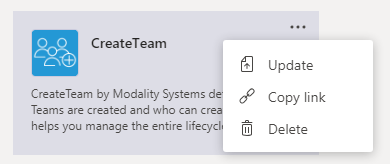
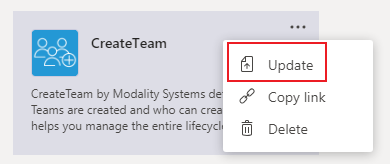
Added CreateTeam docs
New "start here" for CT SaaS customers, new CT SaaS update page, new reference for settings/template items

Changed region(s): [[0.5846, 0.2439, 0.8615, 0.4878], [0.5846, 0.4878, 0.8308, 0.5183]]

diff --git a/CreateTeam/createteam-config.md b/CreateTeam/createteam-config.md
@@ -1,0 +1,31 @@
+# Configuring CreateTeam
+
+For SaaS customers, Modality Systems configure these options for you - this acts as a reference for what is possible.
+
+For customer Azure tenant (CAT), these are [set in Azure table storage](https://docs.modalitysystems.com/CreateTeam/customerHosted/TableStorageConfiguration.html).
+
+## Inital screen
+
+Control appearance and which options the end user will see.
+
+![Firstscreen](images/ct-firstscreen-ref.png)
+
+## Basic team creation ("Create custom team")
+
+Control what end users are allowed, if using the basic (no templates) mode.
+
+![Basic](images/ct-basic-team-ref.png)
+
+## Create team from template
+
+Control visual elements of the template - [please refer to the template JSON format if creating your own](https://docs.modalitysystems.com/CreateTeam/customerHosted/templateJsonConfiguration.html).
+
+![Template](images/ct-template-ref.png)
+
+Non-visual elements that can be configured in the template include:
+
+* list of approvers for the template
+* custom channels
+* custom tabs within channels
+* retention labels
+* Azure security group that is allowed to use the template

diff --git a/CreateTeam/update-createteam-manifest.md b/CreateTeam/update-createteam-manifest.md
@@ -1,0 +1,19 @@
+## Update your CreateTeam app manifest
+
+**[Click here to download the current CreateTeam manifest file](https://github.com/modalitysystems/CreateTeamGABuilds/releases/latest)** - this will be the zip file with "manifest" in the title, example shown. 
+
+![Screenshot](images/ct-manifest-download.png)
+
+1.	In Microsoft Teams desktop client, go to the Apps section
+   
+![Screenshot](images/teams-apps.png)
+ 
+ 2. Navigate to the App within your company's Apps section then hover your mouse pointer over the app, click on the ... in the top right corner and click Update
+   
+![Screenshot](images/app-update.png)
+
+3. Select the app manifest zip file and Open
+
+![Screenshot](images/ct-manifest-select.png)
+
+Existing app permission and setup policies will continue to apply to the updated version.

diff --git a/twa/README.md b/twa/README.md
@@ -34,15 +34,13 @@ This allows Teamwork Analytics to be deployed without Modality Systems having an
 
 Below are the steps to deploy CreateTeam and the Automation and Reporting
 
-###  [CreateTeam Deployment CAT](https://docs.modalitysystems.com/CreateTeam/)
-
 ### [Teamwork Analytics Data Backend Deployment CAT](https://docs.modalitysystems.com/twa/TeamworkAnalyticsDataCollectorDeployment.html)
 
 ### [Teamwork Analytics Upgrade Steps CAT](https://docs.modalitysystems.com/twa/UpgradingTeamworkAnalytics.html)
 
 ### [Teamwork Analytics Power BI Reports Deployment](https://docs.modalitysystems.com/twa/PowerBIAppsAdminInstallGuide.html)
 
-
+###  [CreateTeam Deployment CAT](https://docs.modalitysystems.com/CreateTeam/)
 
 
 

diff --git a/CreateTeam/deployteamsapp.md b/CreateTeam/deployteamsapp.md
@@ -57,9 +57,7 @@ For the App to be able to create teams in the target Teams Tenant, it is a requi
    
    ![Screenshot](images/app-deployed.png)
    
-> NOTE: To update an App that has already been installed, navigate to the App within your companies Apps section then hover your mouse pointer over the app, click on the ... in the top right corner and click Update
-   
-   ![Screenshot](images/app-update.png)
+Already have CreateTeam installed? [Follow this process to update the existing app with the new manifest.](update-createteam-manifest.md)
    
 ## Allow App to be installed within Microsoft Teams
 

diff --git a/CreateTeam/createteam-saas.md b/CreateTeam/createteam-saas.md
@@ -1,0 +1,11 @@
+# CreateTeam for SaaS customers
+
+The CreateTeam Documentation site provides access to all of the platform documentation you will need to successfully set up  CreateTeam. Configuration of settings and templates is done by Modality, but this serves as a reference to what is possible to change within CreateTeam to meet your organisation's needs. 
+
+![Architecture Diagram](images/architectureDiagram2.png)
+
+>[How to deploy CreateTeam app into your Teams tenant](deployteamsapp.md)
+
+>[Configuring CreateTeam settings and templates](createteam-config.md)
+
+>[Reporting](Reporting.md)

diff --git a/CreateTeam/customerHosted/TableStorageConfiguration.md b/CreateTeam/customerHosted/TableStorageConfiguration.md
@@ -35,7 +35,7 @@ Add a Feature for each of the following RowKeys:
 
 Add a PeoplePicker for each of the following RowKeys:
 
-- ParitionKey = [TenantId]
+- PartitionKey = [TenantId]
 - RowKey = This is a unique string to identify the People Picker.
   - members
   - owners

diff --git a/CreateTeam/README.md b/CreateTeam/README.md
@@ -10,4 +10,6 @@ The CreateTeam Documentation site provides access to all of the platform documen
 
 >[Managing User Roles](ManagingUserRoles.md)
 
+>[Configuring CreateTeam settings and templates](createteam-config.md)
+
 >[Reporting](Reporting.md)
